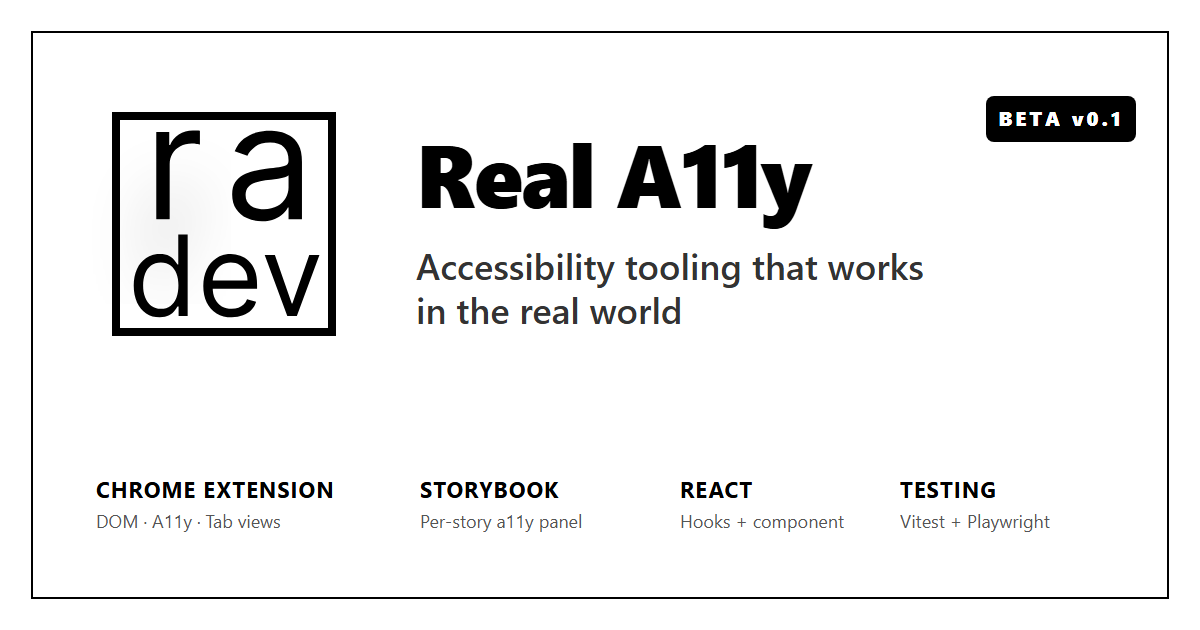
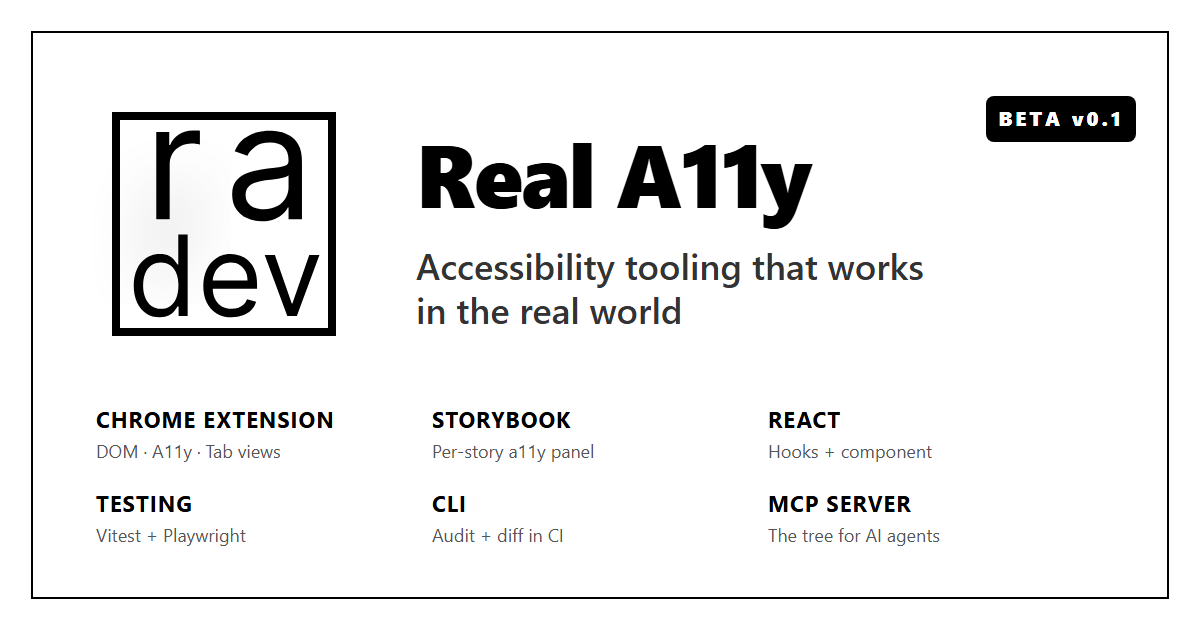
docs(website): show the React card's component name and list all six surfaces (#544)
* docs(website): show the React card's component name and list all six surfaces

The home page's React card read "Drop in and the tree panel appears."
VitePress renders a feature's `details` with `v-html`, so the literal
`<SemanticNavigator />` was parsed as an unknown element and the name
never rendered. Escape it.

Hide the cards' emoji icons from the accessibility tree. Each one is a
text node above the card heading, so a screen reader read its name
("deciduous tree") before every heading. `LabeledFeature` already wraps
every card, so it does this once for all of them.

Stop publishing `website/public/README.md`. Everything in `public/` is
copied to the site root, and VitePress also rendered it as a page, so
the maintainer notes were live at `/public/README` (in the sitemap) and
`/README.md`. The notes dated from the initial commit and were wrong:
the PNG social card they called missing has shipped, and the logo is
the `ra / dev` mark. `pnpm rasterize-og` and
`docs/maintainers/publishing.md` already cover what was still true.

Name the CLI and the MCP server in the meta description, the JSON-LD
description, `og:description` and the social card, which all listed
four surfaces. The meta and JSON-LD copies now share one constant.

* test(website): record the React card's full sentence in the home baseline

The committed baseline had captured the bug: the paragraph ended at
"Drop in". Regenerated from a fresh build; this is the only baseline
that moved.

---------

diff --git a/website/.vitepress/config.ts b/website/.vitepress/config.ts
@@ -52,6 +52,16 @@ const isNext = CHANNEL === "next";
 const SITE = "https://real-a11y.dev";
 
 /**
+ * The search-result description, reused by the homepage's JSON-LD.
+ *
+ * One constant because they drifted apart: when the CLI and the MCP server
+ * shipped, the home page gained a card for each and these strings still
+ * listed four surfaces. Name all six here, in the hero tagline's order.
+ */
+const DESCRIPTION =
+  "Accessibility tooling that works in the real world — semantic tree extraction through a Chrome extension, Storybook panel, React component, testing library, CLI, and MCP server.";
+
+/**
  * The version label in the nav — read from the manifests, never hand-written.
  *
  * It replaces a hardcoded `v0.1 · Beta` that had never changed and could not:
@@ -144,8 +154,7 @@ function readJson(relative: string): {
 
 export default defineConfig({
   title: "Real A11y",
-  description:
-    "Accessibility tooling that works in the real world — semantic tree extraction, testing utilities, React integration, and Storybook panel.",
+  description: DESCRIPTION,
   lang: "en-US",
 
   // Emit sitemap.xml for search engines (matches robots.txt reference).
@@ -236,9 +245,9 @@ export default defineConfig({
   head: [
     ["link", { rel: "icon", href: "/favicon.svg", type: "image/svg+xml" }],
     ["meta", { name: "theme-color", content: "#000000" }],
-    // Social card. `og-image.svg` ships as a placeholder; replace
-    // `/og-image.png` with a 1200×630 PNG export before launch — most OG
-    // scrapers (Twitter, LinkedIn, Slack) prefer PNG over SVG.
+    // Social card. `og-image.png` is a 1200×630 export of `og-image.svg`,
+    // because most OG scrapers (Twitter, LinkedIn, Slack) prefer PNG over
+    // SVG. Edit the SVG, then run `pnpm rasterize-og` to regenerate the PNG.
     [
       "meta",
       {
@@ -263,7 +272,7 @@ export default defineConfig({
       {
         property: "og:description",
         content:
-          "Chrome extension, Storybook panel, React integration, and testing library — all powered by the same semantic engine.",
+          "Chrome extension, Storybook panel, React component, testing library, CLI, and MCP server — all powered by the same semantic engine.",
       },
     ],
     ["meta", { name: "twitter:card", content: "summary_large_image" }],
@@ -314,8 +323,7 @@ export default defineConfig({
             applicationCategory: "DeveloperApplication",
             operatingSystem: "Web, Chrome",
             url: "https://real-a11y.dev",
-            description:
-              "Accessibility tooling that works in the real world — semantic tree extraction, testing utilities, React integration, Storybook panel, and Chrome extension.",
+            description: DESCRIPTION,
             offers: {
               "@type": "Offer",
               price: "0",

diff --git a/website/.vitepress/theme/components/LabeledFeature.vue b/website/.vitepress/theme/components/LabeledFeature.vue
@@ -1,6 +1,7 @@
 <script setup lang="ts">
 /**
- * VitePress's `VPFeature`, with an accessible name on the linked cards.
+ * VitePress's `VPFeature`, with an accessible name on the linked cards and
+ * its emoji icon hidden from the accessibility tree.
  *
  * ## The defect
  *
@@ -80,8 +81,20 @@ const label = computed(() =>
     ? [props.title, props.linkText].filter(Boolean).join(": ")
     : undefined,
 );
+
+// The emoji icons are decoration: each sits above a heading that already
+// says what the card is. Left bare, the emoji is a text node in the tree, so
+// a screen reader reads its name ("deciduous tree", "puzzle piece") before
+// every card heading. `VPFeature` renders a string icon with `v-html`, so
+// wrapping the markup is enough. An image icon (`{ src, alt }`) is left to
+// its own `alt`.
+const icon = computed(() =>
+  typeof props.icon === "string"
+    ? `<span aria-hidden="true">${props.icon}</span>`
+    : props.icon,
+);
 </script>
 
 <template>
-  <VPFeature v-bind="props" :aria-label="label" />
+  <VPFeature v-bind="props" :icon="icon" :aria-label="label" />
 </template>

diff --git a/website/index.md b/website/index.md
@@ -40,7 +40,7 @@ features:
     linkText: Explore the MCP server
   - icon: ⚛
     title: First-class React support
-    details: "useSemanticTree() and useActiveModal() subscribe to DOM mutations via useSyncExternalStore — concurrent-mode safe, no boilerplate. Drop in <SemanticNavigator /> and the tree panel appears."
+    details: "useSemanticTree() and useActiveModal() subscribe to DOM mutations via useSyncExternalStore — concurrent-mode safe, no boilerplate. Drop in &lt;SemanticNavigator /&gt; and the tree panel appears."
   - icon: 📖
     title: Storybook panel out of the box
     details: "Install @real-a11y-dev/storybook-addon and every story gets an A11y tree panel showing the semantic structure, heading outline, and tab sequence — updated live while the panel is open."
